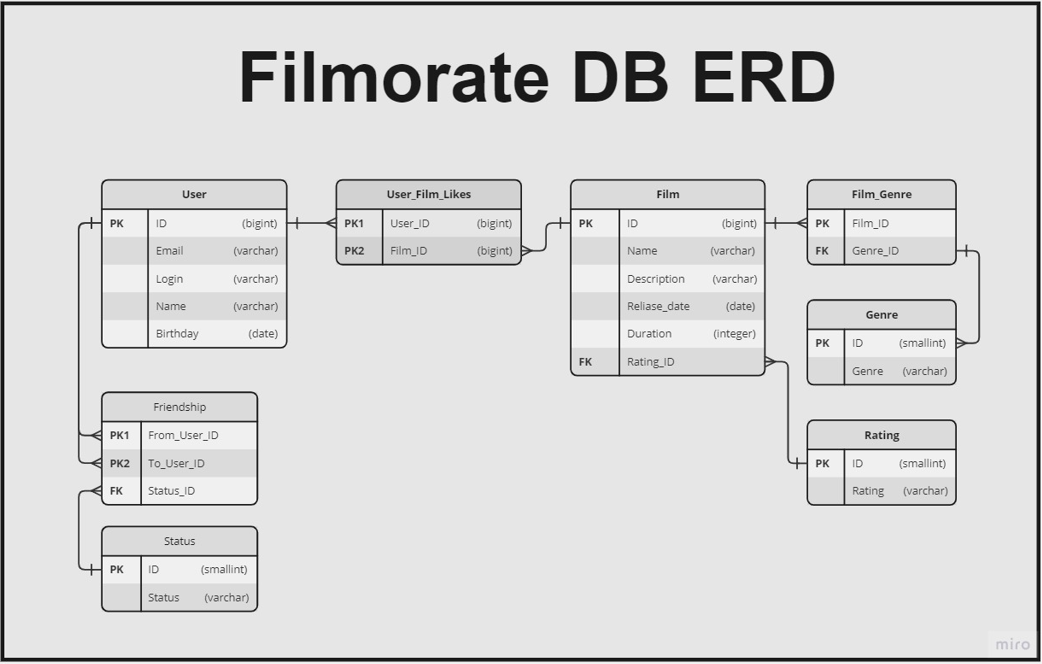
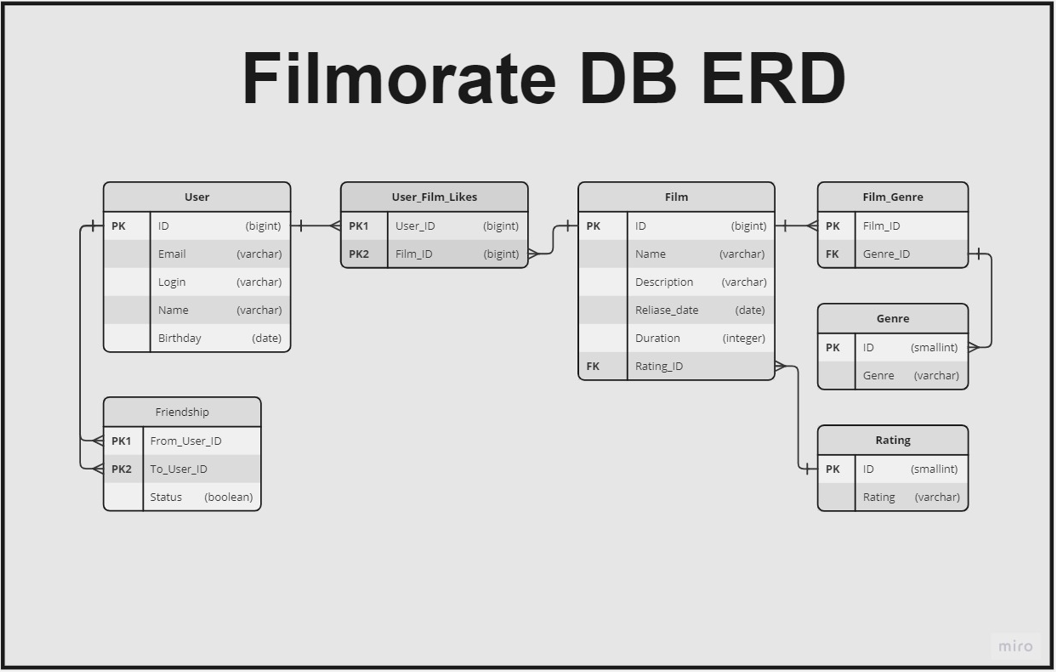
feat: рефакторинг диаграммы

diff --git a/README.md b/README.md
@@ -12,7 +12,7 @@ Name - Varchar(50) <br>
 Birthday - Date <br>
 
 ### Status - взимоотношение двух пользователей <br>
-*Status - в значении заявки на дружбу с другим пользователем (request \ friend) <br>
+*Status - в значении заявки на дружбу с другим пользователем <br>
 
 ID - **PK**, Smallint, NotNull <br>
 Status - Varchar(50) <br>
@@ -38,7 +38,7 @@ Rating - Varchar(50), ENUM <br>
 ### UserFriendship - взаимоотношение пользователей в формате заявки на добавление в друзья
 From User ID - **PK1**, составной ключ, инициатор запроса <br>
 To User ID - **PK2**, составной ключ <br>
-Status ID - **FK**, статус запроса (wait \ friend) <br>
+Status - Boolean, статус запроса (false \ true) <br>
 
 ### Film_Genre - соотношение фильма и его жанра/ов
 Film ID - **PK** <br>
@@ -47,6 +47,8 @@ Genre ID - **FK** <br>
 ### User_Film_Likes - соотношение лайков от пользователей к фильмам
 User ID - **PK1**, составной ключ <br>
 Film ID - **PK2**, составной ключ <br>
+
+
 
 
 
